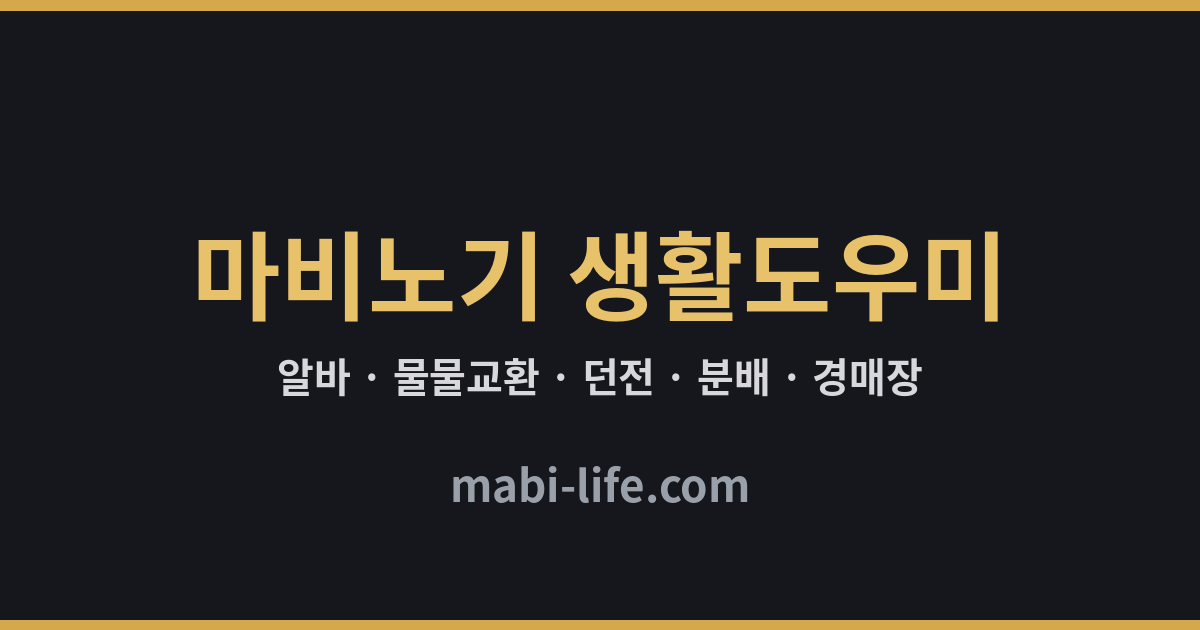
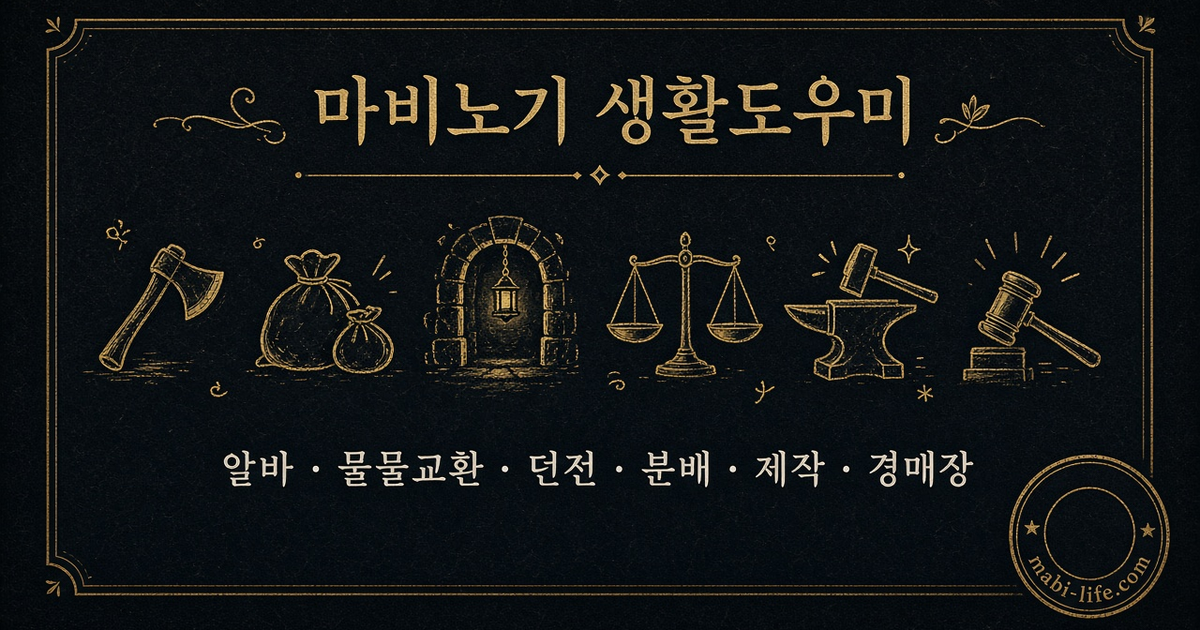
Update OG image (hybrid 2), cache-bust og:image ?v=20261104; backup old og.png

diff --git a/docs/about/index.html b/docs/about/index.html
@@ -5,7 +5,7 @@
 <meta property="og:title" content="사이트 소개 — 마비노기 생활도우미">
 <meta property="og:description" content="마비노기 생활도우미(mabi-life.com) 소개 — 알바·물물교환·던전·분배·경매장·제작 도우미를 제공하는 마비노기 비공식 팬 사이트">
 <meta property="og:url" content="https://mabi-life.com/about/">
-<meta property="og:image" content="https://mabi-life.com/og.png">
+<meta property="og:image" content="https://mabi-life.com/og.png?v=20261104">
 <meta property="og:image:width" content="1200">
 <meta property="og:image:height" content="630">
 <meta name="twitter:card" content="summary_large_image"><meta name="viewport" content="width=device-width,initial-scale=1"><meta name="description" content="마비노기 생활도우미(mabi-life.com) 소개 — 알바·물물교환·던전·분배·경매장·제작 도우미를 제공하는 마비노기 비공식 팬 사이트"><link rel="icon" href="/favicon.ico?v=6" sizes="any"><link rel="icon" type="image/png" sizes="32x32" href="/favicon-32.png?v=6"><link rel="icon" type="image/png" sizes="192x192" href="/favicon-192.png?v=6"><link rel="apple-touch-icon" href="/apple-touch-icon.png?v=6"><link rel="preconnect" href="https://fonts.googleapis.com"><link href="https://fonts.googleapis.com/css2?family=Gowun+Batang:wght@400;700&family=Gowun+Dodum&display=swap" rel="stylesheet"><style>

diff --git a/docs/privacy/index.html b/docs/privacy/index.html
@@ -6,7 +6,7 @@
 <meta property="og:title" content="개인정보처리방침 — 마비노기 생활도우미">
 <meta property="og:description" content="마비노기 생활도우미(mabi-life.com) 개인정보처리방침">
 <meta property="og:url" content="https://mabi-life.com/privacy/">
-<meta property="og:image" content="https://mabi-life.com/og.png">
+<meta property="og:image" content="https://mabi-life.com/og.png?v=20261104">
 <meta property="og:image:width" content="1200">
 <meta property="og:image:height" content="630">
 <meta name="twitter:card" content="summary_large_image"><link rel="icon" href="/favicon.ico?v=6" sizes="any"><link rel="icon" type="image/png" sizes="32x32" href="/favicon-32.png?v=6"><link rel="icon" type="image/png" sizes="192x192" href="/favicon-192.png?v=6"><link rel="apple-touch-icon" href="/apple-touch-icon.png?v=6"><link rel="preconnect" href="https://fonts.googleapis.com"><link href="https://fonts.googleapis.com/css2?family=Gowun+Batang:wght@400;700&family=Gowun+Dodum&display=swap" rel="stylesheet"><style>

diff --git a/docs/terms/index.html b/docs/terms/index.html
@@ -6,7 +6,7 @@
 <meta property="og:title" content="이용약관 — 마비노기 생활도우미">
 <meta property="og:description" content="마비노기 생활도우미(mabi-life.com) 이용약관">
 <meta property="og:url" content="https://mabi-life.com/terms/">
-<meta property="og:image" content="https://mabi-life.com/og.png">
+<meta property="og:image" content="https://mabi-life.com/og.png?v=20261104">
 <meta property="og:image:width" content="1200">
 <meta property="og:image:height" content="630">
 <meta name="twitter:card" content="summary_large_image"><link rel="icon" href="/favicon.ico?v=6" sizes="any"><link rel="icon" type="image/png" sizes="32x32" href="/favicon-32.png?v=6"><link rel="icon" type="image/png" sizes="192x192" href="/favicon-192.png?v=6"><link rel="apple-touch-icon" href="/apple-touch-icon.png?v=6"><link rel="preconnect" href="https://fonts.googleapis.com"><link href="https://fonts.googleapis.com/css2?family=Gowun+Batang:wght@400;700&family=Gowun+Dodum&display=swap" rel="stylesheet"><style>

diff --git a/docs/index.html b/docs/index.html
@@ -5,7 +5,7 @@
 <meta property="og:title" content="마비노기 생활도우미">
 <meta property="og:description" content="마비노기 생활도우미 — 알바·물물교환·던전·분배·제작·경매장 시세를 한곳에서 확인하는 비공식 팬 도구">
 <meta property="og:url" content="https://mabi-life.com/">
-<meta property="og:image" content="https://mabi-life.com/og.png">
+<meta property="og:image" content="https://mabi-life.com/og.png?v=20261104">
 <meta property="og:image:width" content="1200">
 <meta property="og:image:height" content="630">
 <meta name="twitter:card" content="summary_large_image"><link rel="icon" href="/favicon.ico?v=6" sizes="any"><link rel="icon" type="image/png" sizes="32x32" href="/favicon-32.png?v=6"><link rel="icon" type="image/png" sizes="192x192" href="/favicon-192.png?v=6"><link rel="apple-touch-icon" href="/apple-touch-icon.png?v=6"><style>:root{--bg:#14161b;--p:#1d2027;--p2:#262a33;--ln:#333846;--tx:#e6e8ee;--mu:#8a90a0;--gd:#f7d98b}

diff --git a/docs/barter/index.html b/docs/barter/index.html
@@ -6,7 +6,7 @@
 <meta property="og:title" content="물물교환 도우미 — 마비노기 생활도우미">
 <meta property="og:description" content="마비노기 물물교환 품목과 경매장 시세를 비교해 이득 교환을 찾는 도우미">
 <meta property="og:url" content="https://mabi-life.com/barter/">
-<meta property="og:image" content="https://mabi-life.com/og.png">
+<meta property="og:image" content="https://mabi-life.com/og.png?v=20261104">
 <meta property="og:image:width" content="1200">
 <meta property="og:image:height" content="630">
 <meta name="twitter:card" content="summary_large_image"><link rel="icon" href="/favicon.ico?v=6" sizes="any"><link rel="icon" type="image/png" sizes="32x32" href="/favicon-32.png?v=6"><link rel="icon" type="image/png" sizes="192x192" href="/favicon-192.png?v=6"><link rel="apple-touch-icon" href="/apple-touch-icon.png?v=6">

diff --git a/docs/alba/index.html b/docs/alba/index.html
@@ -6,7 +6,7 @@
 <meta property="og:title" content="알바 도우미 — 마비노기 생활도우미">
 <meta property="og:description" content="마비노기 알바 보상과 시세를 비교해 효율 좋은 알바를 고르는 도우미">
 <meta property="og:url" content="https://mabi-life.com/alba/">
-<meta property="og:image" content="https://mabi-life.com/og.png">
+<meta property="og:image" content="https://mabi-life.com/og.png?v=20261104">
 <meta property="og:image:width" content="1200">
 <meta property="og:image:height" content="630">
 <meta name="twitter:card" content="summary_large_image"><link rel="icon" href="/favicon.ico?v=6" sizes="any"><link rel="icon" type="image/png" sizes="32x32" href="/favicon-32.png?v=6"><link rel="icon" type="image/png" sizes="192x192" href="/favicon-192.png?v=6"><link rel="apple-touch-icon" href="/apple-touch-icon.png?v=6">

diff --git a/docs/bunbae/index.html b/docs/bunbae/index.html
@@ -13,7 +13,7 @@
 <meta property="og:title" content="분배 도우미 — 마비노기 생활도우미">
 <meta property="og:description" content="마비노기 보상 분배 창 스크린샷으로 파티원과 아이템을 자동 인식하고 분배자를 기록하는 도우미">
 <meta property="og:url" content="https://mabi-life.com/bunbae/">
-<meta property="og:image" content="https://mabi-life.com/og.png">
+<meta property="og:image" content="https://mabi-life.com/og.png?v=20261104">
 <meta property="og:image:width" content="1200">
 <meta property="og:image:height" content="630">
 <meta name="twitter:card" content="summary_large_image">

diff --git a/docs/horn/index.html b/docs/horn/index.html
@@ -10,7 +10,7 @@
 <meta property="og:title" content="뿔피리 도우미 — 마비노기 생활도우미">
 <meta property="og:description" content="마비노기 서버별 거대한 외침의 뿔피리(거뿔) 내역을 모아 보고 검색하는 도우미">
 <meta property="og:url" content="https://mabi-life.com/horn/">
-<meta property="og:image" content="https://mabi-life.com/og.png">
+<meta property="og:image" content="https://mabi-life.com/og.png?v=20261104">
 <meta property="og:image:width" content="1200">
 <meta property="og:image:height" content="630">
 <meta name="twitter:card" content="summary_large_image">

diff --git a/docs/dungeon/index.html b/docs/dungeon/index.html
@@ -11,7 +11,7 @@
 <meta property="og:title" content="던전 도우미 — 마비노기 생활도우미">
 <meta property="og:description" content="마비노기 던전 횟수 기록과 4관 헤일로 등 던전 진행을 돕는 도우미">
 <meta property="og:url" content="https://mabi-life.com/dungeon/">
-<meta property="og:image" content="https://mabi-life.com/og.png">
+<meta property="og:image" content="https://mabi-life.com/og.png?v=20261104">
 <meta property="og:image:width" content="1200">
 <meta property="og:image:height" content="630">
 <meta name="twitter:card" content="summary_large_image">

diff --git a/docs/craft/index.html b/docs/craft/index.html
@@ -10,7 +10,7 @@
 <meta property="og:title" content="제작 도우미 — 마비노기 생활도우미">
 <meta property="og:description" content="마비노기 제작 재료와 구슬 시세로 제작 비용을 계산하는 도우미">
 <meta property="og:url" content="https://mabi-life.com/craft/">
-<meta property="og:image" content="https://mabi-life.com/og.png">
+<meta property="og:image" content="https://mabi-life.com/og.png?v=20261104">
 <meta property="og:image:width" content="1200">
 <meta property="og:image:height" content="630">
 <meta name="twitter:card" content="summary_large_image">

diff --git a/docs/auction/index.html b/docs/auction/index.html
@@ -9,7 +9,7 @@
 <meta property="og:title" content="경매장 도우미 — 마비노기 생활도우미">
 <meta property="og:description" content="마비노기 경매장 시세와 옵션 Lv을 빠르게 확인하는 도우미">
 <meta property="og:url" content="https://mabi-life.com/auction/">
-<meta property="og:image" content="https://mabi-life.com/og.png">
+<meta property="og:image" content="https://mabi-life.com/og.png?v=20261104">
 <meta property="og:image:width" content="1200">
 <meta property="og:image:height" content="630">
 <meta name="twitter:card" content="summary_large_image">
